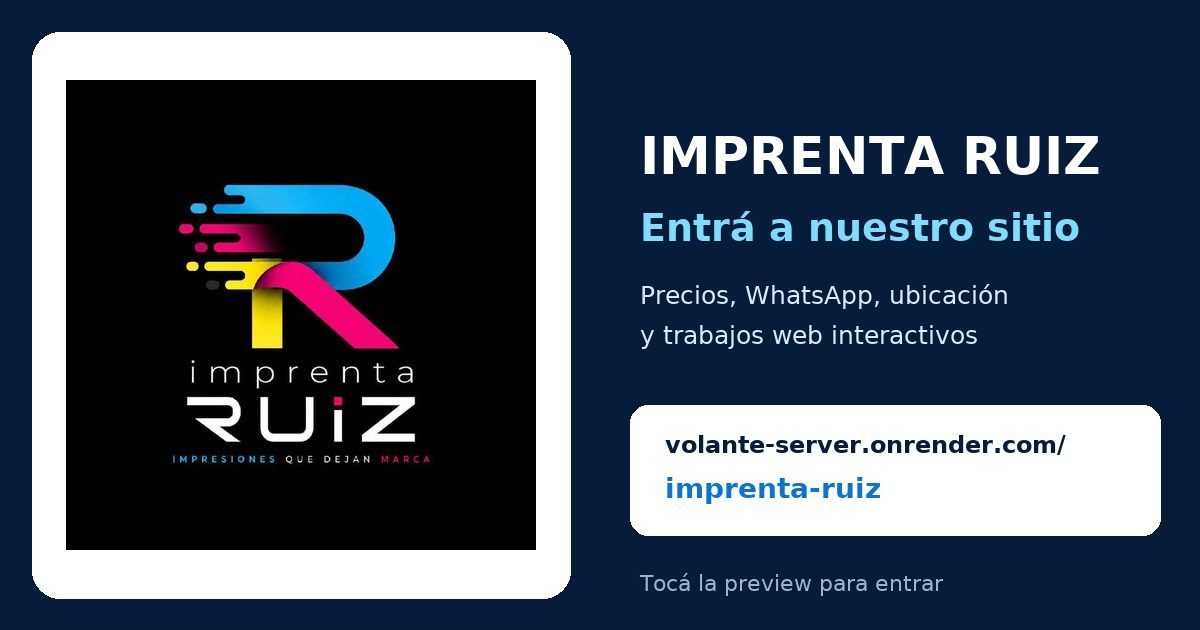
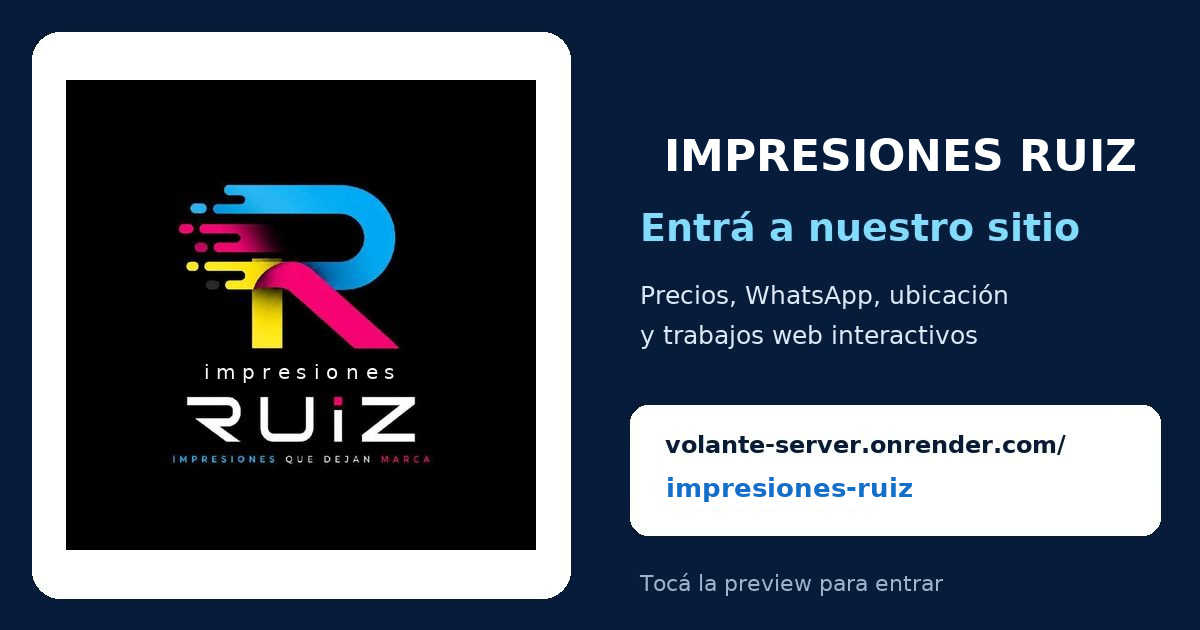
Actualiza el catálogo a Impresiones Ruiz

Changed region(s): [[0.5242, 0.2111, 0.9558, 0.3016], [0.555, 0.754, 0.7708, 0.8143], [0.1542, 0.573, 0.3392, 0.6032]]

diff --git a/templates/ruiz.html b/templates/ruiz.html
@@ -3,8 +3,8 @@
 <head>
   <meta charset="UTF-8">
   <meta name="viewport" content="width=device-width, initial-scale=1">
-  <title>Imprenta Ruiz — Diseño original</title>
-  <meta name="description" content="Diseño original de Imprenta Ruiz con precios y mascota virtual.">
+  <title>Impresiones Ruiz — Diseño original</title>
+  <meta name="description" content="Diseño original de Impresiones Ruiz con precios y mascota virtual.">
   <meta name="theme-color" content="#071b3b">
   <style>
     *{box-sizing:border-box}html,body{margin:0;min-height:100%;background:#071b3b}body{display:block}.canvas{position:relative;width:100%;max-width:485px;height:auto;margin:0 auto}.reference{display:block;width:100%;height:auto}.prices-overlay{position:absolute;z-index:3;left:6.5%;top:34.7%;width:87%;height:27.8%;overflow:hidden;border-radius:12px;background:#fff}.price-track{display:flex;width:200%;height:calc(100% - 14px);animation:price-slide 16s ease-in-out infinite}.price-slide{width:50%;height:100%;padding:4px;display:grid;grid-template-columns:1fr 1fr;grid-template-rows:1fr 1fr;gap:7px}.price-card{display:grid;grid-template-columns:37% 63%;min-height:0;overflow:hidden;border:1px solid #e6eaf1;border-radius:10px;background:#fff;box-shadow:0 4px 9px rgba(7,27,59,.13)}.price-icon{display:grid;place-items:center;color:#fff;font-size:23px}.blue{background:linear-gradient(145deg,#039af0,#0874d3)}.pink{background:linear-gradient(145deg,#f4007d,#d40055)}.yellow{background:linear-gradient(145deg,#ffd300,#ffb800)}.purple{background:linear-gradient(145deg,#9b36e8,#6920c7)}.price-info{padding:8px 6px}.price-info h2{font-size:10px;line-height:1.05;color:#071b3b}.price-info strong{display:block;margin-top:8px;font-size:16px;line-height:1;color:#078de8}.price-info small{display:block;margin-top:3px;font-size:8px;color:#53627a}@keyframes price-slide{0%,37%{transform:translateX(0)}47%,87%{transform:translateX(-50%)}100%{transform:translateX(0)}}.dots{height:14px;display:flex;align-items:center;justify-content:center;gap:5px}.dots i{width:5px;height:5px;border-radius:50%;background:#c4cbd8}.dots i:first-child{background:#078de8}.hit{position:absolute;display:block;z-index:4;border-radius:18px}.hit-map{left:18.5%;top:72.55%;width:62.5%;height:7.2%}.send-carousel{position:fixed;z-index:22;right:10px;top:50%;left:auto;width:56px;height:auto;transform:translateY(-50%);overflow:visible;border-radius:0;box-shadow:none}.send-track{display:flex;flex-direction:column;align-items:center;gap:10px;width:100%;height:auto;animation:none}.send-option{flex:0 0 auto;width:56px;height:56px;min-height:56px;display:flex;align-items:center;justify-content:center;gap:0;padding:0;box-sizing:border-box;border-radius:50%;color:#fff;text-decoration:none;font:0/0 Arial;box-shadow:0 4px 10px rgba(7,27,59,.28)}.send-option span{display:none}.send-option:hover,.send-option:focus-visible{filter:brightness(1.08);outline:3px solid #071b3b;outline-offset:3px}.send-option.whatsapp{background:linear-gradient(145deg,#27c768,#0a9f4d)}.send-option.telegram{background:linear-gradient(145deg,#24a9e8,#0874d3)}.send-option svg{width:28px;height:28px;fill:#fff;flex:none}@media(max-width:620px){.send-carousel{right:6px;width:48px}.send-track{gap:8px}.send-option{width:48px;height:48px;min-height:48px}.send-option svg{width:24px;height:24px}}.hit:focus-visible{outline:3px solid #071b3b;outline-offset:3px}
@@ -15,10 +15,10 @@
 </style>
 </head>
 <body>
-  <main class="canvas" aria-label="Diseño original de Imprenta Ruiz">
-    <img class="reference" src="/static/volante-ruiz-sin-hamburguesa.jpg" alt="Diseño original de Imprenta Ruiz">
+  <main class="canvas" aria-label="Diseño original de Impresiones Ruiz">
+    <img class="reference" src="/static/volante-ruiz-sin-hamburguesa.jpg" alt="Diseño original de Impresiones Ruiz">
     <section class="prices-overlay" aria-label="Precios principales con carrusel"><div class="price-track"><div class="price-slide"><article class="price-card"><div class="price-icon blue">🖨</div><div class="price-info"><h2>Impresión color</h2><strong>$1.250</strong><small>por faz</small></div></article><article class="price-card"><div class="price-icon pink">📄</div><div class="price-info"><h2>Blanco y negro</h2><strong>$900</strong><small>por faz</small></div></article><article class="price-card"><div class="price-icon yellow">🔩</div><div class="price-info"><h2>Anillado</h2><strong>$4.000</strong><small>todos</small></div></article><article class="price-card"><div class="price-icon purple">🏷</div><div class="price-info"><h2>A4 autoadhesivo</h2><strong>$7.500</strong><small>por hoja</small></div></article></div><div class="price-slide photo-slide"><button class="price-card mitsubishi-card" type="button" onclick="document.getElementById('precios-mitsubishi').classList.add('open')"><div class="price-icon purple">🖼</div><div class="price-info"><h2>Fotos Mitsubishi</h2><strong>Ver precios</strong><small>tocá para ver precios</small></div></button><button class="price-card inkjet-card" type="button" onclick="document.getElementById('precios-inkjet').classList.add('open')"><div class="price-icon blue">🖨</div><div class="price-info"><h2>Fotos Inkjet</h2><strong>Ver precios</strong><small>tocá para ver precios</small></div></button><button class="price-card web-work-card" type="button" onclick="document.getElementById('trabajos-web').classList.add('open')"><div class="price-icon blue">🌐</div><div class="price-info"><h2>Trabajos web interactivos</h2><strong>Ver sitios</strong><small>Fleming · Abigail</small></div></button><button class="price-card kodak-card" type="button" onclick="document.getElementById('precios-kodak').classList.add('open')"><div class="price-icon pink">📷</div><div class="price-info"><h2>Fotos Kodak</h2><strong>Ver precios</strong><small>tocá para ver precios</small></div></button><button class="price-card polaroid-card" type="button" onclick="document.getElementById('precios-polaroid').classList.add('open')"><div class="price-icon orange">🖼</div><div class="price-info"><h2>Fotos Polaroid</h2><strong>Ver precios</strong><small>individual · packs</small></div></button><article class="price-card"><div class="price-icon yellow">🧊</div><div class="price-info"><h2>Plastificado</h2><strong>Consultar</strong><small>brillo o mate</small></div></article><button class="price-card almanaques-card" type="button" onclick="document.getElementById('precios-almanaques').classList.add('open')"><div class="price-icon orange">📅</div><div class="price-info"><h2>Almanaques</h2><strong>Ver precios</strong><small>tocá para ver precios</small></div></button></div></div><div class="dots"><i></i><i></i></div></section>
-    <div class="send-carousel" aria-label="Enviar archivo por WhatsApp o Telegram"><div class="send-track"><a class="send-option whatsapp" href="https://wa.me/5493872101274?text=Hola%20Imprenta%20Ruiz%2C%20te%20mando%20mi%20archivo%20para%20imprimir" target="_blank" rel="noopener" aria-label="WhatsApp"><svg viewBox="0 0 24 24" aria-hidden="true"><path d="M12 2.2a9.7 9.7 0 0 0-8.36 14.62L2.2 21.8l5.13-1.39A9.7 9.7 0 1 0 12 2.2Zm0 17.72a8 8 0 0 1-4.08-1.12l-.29-.17-3.05.83.82-2.98-.19-.3A8.02 8.02 0 1 1 12 19.92Zm4.39-5.98c-.24-.12-1.43-.7-1.65-.78-.22-.08-.38-.12-.54.12-.16.24-.62.78-.76.94-.14.16-.28.18-.52.06-.24-.12-1.02-.38-1.94-1.2-.72-.64-1.2-1.43-1.34-1.67-.14-.24-.01-.37.1-.49.11-.11.24-.28.36-.42.12-.14.16-.24.24-.4.08-.16.04-.3-.02-.42-.06-.12-.54-1.3-.74-1.78-.2-.47-.4-.41-.54-.42h-.46c-.16 0-.42.06-.64.3-.22.24-.84.82-.84 2s.86 2.32.98 2.48c.12.16 1.7 2.6 4.12 3.64.58.25 1.03.4 1.38.51.58.18 1.1.15 1.51.09.46-.07 1.43-.58 1.63-1.14.2-.56.2-1.04.14-1.14-.06-.1-.22-.16-.46-.28Z"/></svg><span>Enviar archivo</span></a><a class="send-option telegram" href="https://t.me/imptaruiz" target="_blank" rel="noopener" aria-label="Enviar archivo por Telegram"><svg viewBox="0 0 24 24" aria-hidden="true"><path d="M21.7 3.4 18.4 20c-.25 1.17-.9 1.46-1.83.91l-5.04-3.72-2.43 2.34c-.27.27-.5.5-1.03.5l.37-5.14 9.36-8.46c.41-.37-.09-.58-.63-.21L5.63 13.7.65 12.14c-1.08-.34-1.1-1.08.23-1.57L20.3 3.03c.9-.33 1.68.21 1.4.37Z"/></svg><span>Enviar archivo</span></a></div></div><a class="hit hit-map" href="https://www.google.com/maps/search/?api=1&query=Chacabuco+470+Salta" target="_blank" rel="noopener" aria-label="Cómo llegar a Imprenta Ruiz"></a>
+    <div class="send-carousel" aria-label="Enviar archivo por WhatsApp o Telegram"><div class="send-track"><a class="send-option whatsapp" href="https://wa.me/5493872101274?text=Hola%20Impresiones%20Ruiz%2C%20te%20mando%20mi%20archivo%20para%20imprimir" target="_blank" rel="noopener" aria-label="WhatsApp"><svg viewBox="0 0 24 24" aria-hidden="true"><path d="M12 2.2a9.7 9.7 0 0 0-8.36 14.62L2.2 21.8l5.13-1.39A9.7 9.7 0 1 0 12 2.2Zm0 17.72a8 8 0 0 1-4.08-1.12l-.29-.17-3.05.83.82-2.98-.19-.3A8.02 8.02 0 1 1 12 19.92Zm4.39-5.98c-.24-.12-1.43-.7-1.65-.78-.22-.08-.38-.12-.54.12-.16.24-.62.78-.76.94-.14.16-.28.18-.52.06-.24-.12-1.02-.38-1.94-1.2-.72-.64-1.2-1.43-1.34-1.67-.14-.24-.01-.37.1-.49.11-.11.24-.28.36-.42.12-.14.16-.24.24-.4.08-.16.04-.3-.02-.42-.06-.12-.54-1.3-.74-1.78-.2-.47-.4-.41-.54-.42h-.46c-.16 0-.42.06-.64.3-.22.24-.84.82-.84 2s.86 2.32.98 2.48c.12.16 1.7 2.6 4.12 3.64.58.25 1.03.4 1.38.51.58.18 1.1.15 1.51.09.46-.07 1.43-.58 1.63-1.14.2-.56.2-1.04.14-1.14-.06-.1-.22-.16-.46-.28Z"/></svg><span>Enviar archivo</span></a><a class="send-option telegram" href="https://t.me/imptaruiz" target="_blank" rel="noopener" aria-label="Enviar archivo por Telegram"><svg viewBox="0 0 24 24" aria-hidden="true"><path d="M21.7 3.4 18.4 20c-.25 1.17-.9 1.46-1.83.91l-5.04-3.72-2.43 2.34c-.27.27-.5.5-1.03.5l.37-5.14 9.36-8.46c.41-.37-.09-.58-.63-.21L5.63 13.7.65 12.14c-1.08-.34-1.1-1.08.23-1.57L20.3 3.03c.9-.33 1.68.21 1.4.37Z"/></svg><span>Enviar archivo</span></a></div></div><a class="hit hit-map" href="https://www.google.com/maps/search/?api=1&query=Chacabuco+470+Salta" target="_blank" rel="noopener" aria-label="Cómo llegar a Impresiones Ruiz"></a>
   <div class="web-modal" id="precios-kodak" role="dialog" aria-modal="true" aria-label="Precios Fotos Kodak"><div class="web-box"><div class="web-head"><h2>Precios Fotos Kodak</h2><button class="web-close" type="button" aria-label="Cerrar" onclick="document.getElementById('precios-kodak').classList.remove('open')">×</button></div><p class="web-sub">Impresión térmica Kodak en papel térmico brillante de 300 g, con larga duración.</p><div class="inkjet-prices"><div><span>10×15 cm</span><b>$5.500</b></div><div><span>15×15 cm</span><b>$6.500</b></div><div><span>15×20 cm</span><b>$7.500</b></div></div></div></div>
   <div class="web-modal" id="precios-polaroid" role="dialog" aria-modal="true" aria-label="Precios Fotos Polaroid"><div class="web-box"><div class="web-head"><h2>Precios Fotos Polaroid</h2><button class="web-close" type="button" aria-label="Cerrar" onclick="document.getElementById('precios-polaroid').classList.remove('open')">×</button></div><p class="web-sub">Fotos estilo Polaroid Mitsubishi. Medida final: 8,5×10,5 cm.</p><div class="inkjet-prices"><div><span>Individual</span><b>$4.000</b></div><div><span>Pack de 4</span><b>$12.000</b></div><div><span>Pack de 10</span><b>$25.000</b></div></div></div></div>
   <div class="web-modal" id="precios-almanaques" role="dialog" aria-modal="true" aria-label="Precios de almanaques"><div class="web-box"><div class="web-head"><h2>Precios de almanaques</h2><button class="web-close" type="button" aria-label="Cerrar" onclick="document.getElementById('precios-almanaques').classList.remove('open')">×</button></div><p class="web-sub">Almanaques impresos a color. Valores por unidad con diseño ya preparado.</p><div class="inkjet-prices"><div><span>5×8 cm</span><b>$2.500</b></div><div><span>9×6 cm</span><b>$3.000</b></div><div><span>A4</span><b>$7.500</b></div><div><span>A3</span><b>$15.000</b></div><div><span>A3+</span><b>$18.000</b></div></div></div></div>
@@ -29,9 +29,9 @@
     <a class="web-card catalog-card" href="https://catalogo-app-zm3w.onrender.com/fleming" target="_blank" rel="noopener"><img src="https://volante-server.onrender.com/static/web-preview-fleming.jpg" alt="Banner de Inmobiliaria Fleming"><strong>Catálogo de Inmobiliaria Fleming</strong><small>Abrir catálogo interactivo ↗</small></a>
     <a class="web-card catalog-card" href="https://catalogo-app-zm3w.onrender.com/c/libreria-ruiz" target="_blank" rel="noopener"><img src="https://catalogo-app-zm3w.onrender.com/static/banner_libreria_ruiz.jpg" alt="Banner de Librería Ruiz"><strong>Catálogo de Librería Ruiz</strong><small>Abrir catálogo interactivo ↗</small></a>
     <a class="web-card catalog-card" href="https://catalogo-app-zm3w.onrender.com/c/vivero-los-colibries" target="_blank" rel="noopener"><img src="https://catalogo-app-zm3w.onrender.com/static/banner_vivero_los_colibries_nuevo.jpg" alt="Banner de Vivero Los Colibríes"><strong>Catálogo Vivero Los Colibríes</strong><small>Abrir catálogo interactivo ↗</small></a>
-    <a class="web-card catalog-card" href="https://volante-server.onrender.com/imprenta-ruiz" target="_blank" rel="noopener"><img src="https://volante-server.onrender.com/static/imprenta-ruiz-preview-v3.jpg" alt="Banner de Imprenta Ruiz"><strong>Catálogo Imprenta Ruiz</strong><small>Abrir catálogo interactivo ↗</small></a>
+    <a class="web-card catalog-card" href="https://volante-server.onrender.com/impresiones-ruiz" target="_blank" rel="noopener"><img src="https://volante-server.onrender.com/static/imprenta-ruiz-preview-v3.jpg" alt="Banner de Impresiones Ruiz"><strong>Catálogo Impresiones Ruiz</strong><small>Abrir catálogo interactivo ↗</small></a>
   </div></div></div>
   </main>
-  <img class="mascota-float" src="https://share.zapia.com/364edisw4oof6c0bxul0tz" alt="Mascota animada de Imprenta Ruiz">
+  <img class="mascota-float" src="https://share.zapia.com/364edisw4oof6c0bxul0tz" alt="Mascota animada de Impresiones Ruiz">
 </body>
 </html>

diff --git a/app.py b/app.py
@@ -107,10 +107,12 @@ def index():
     return render_template("index.html", imprenta_wpp=IMPRENTA_WHATSAPP)
 
 
+@app.route("/impresiones-ruiz")
+@app.route("/impresiones-ruiz/")
 @app.route("/imprenta-ruiz")
 @app.route("/imprenta-ruiz/")
 def imprenta_ruiz():
-    """Página pública de Imprenta Ruiz, con preview al compartir el enlace."""
+    """Página pública de Impresiones Ruiz, con preview al compartir el enlace."""
     html = render_template("ruiz.html")
     # Las previsualizaciones antiguas venían incrustadas en base64 y hacían
     # crecer la página más de medio megabyte. Se sirven como imágenes cacheables.
@@ -163,8 +165,8 @@ def imprenta_ruiz():
         mascot_end = html.find('>', mascot_start)
         if mascot_end >= 0:
             html = html[:mascot_start] + html[mascot_end + 1:]
-    location_anchor = '<a class="hit hit-map" href="https://www.google.com/maps/search/?api=1&query=Chacabuco+470+Salta" target="_blank" rel="noopener" aria-label="Cómo llegar a Imprenta Ruiz"></a>'
-    location_buttons = '''<div class="location-split hit" aria-label="Ubicación de Imprenta Ruiz">
+    location_anchor = '<a class="hit hit-map" href="https://www.google.com/maps/search/?api=1&query=Chacabuco+470+Salta" target="_blank" rel="noopener" aria-label="Cómo llegar a Impresiones Ruiz"></a>'
+    location_buttons = '''<div class="location-split hit" aria-label="Ubicación de Impresiones Ruiz">
       <button type="button" class="location-hotspot front-hotspot" data-open-modal="frontModal" title="Ver mi casa" aria-label="Ver mi casa"></button>
       <button type="button" class="location-hotspot map-hotspot" data-open-modal="mapModal" title="Cómo llegar y ver mapa" aria-label="Cómo llegar y ver mapa"></button>
     </div>'''
@@ -223,10 +225,10 @@ def imprenta_ruiz():
 @media(max-width:620px){.send-carousel{top:calc(50% + 185px)!important}.belen-widget{right:10px!important;left:auto!important;top:calc(50% + 70px)!important;bottom:auto!important;transform:none!important}}
 </style>
 <div class="ruiz-modal" id="frontModal" role="dialog" aria-modal="true" aria-labelledby="frontModalTitle">
-  <div class="ruiz-modal-card"><button class="ruiz-close" type="button" data-close-modal>Cerrar ✕</button><h2 id="frontModalTitle">Mi casa / Imprenta Ruiz</h2><img class="ruiz-front-image" src="/static/frente_casa_rejas_final.jpg" alt="Frente con rejas de Imprenta Ruiz en Chacabuco 470"></div>
+  <div class="ruiz-modal-card"><button class="ruiz-close" type="button" data-close-modal>Cerrar ✕</button><h2 id="frontModalTitle">Mi casa / Impresiones Ruiz</h2><img class="ruiz-front-image" src="/static/frente_casa_rejas_final.jpg" alt="Frente con rejas de Impresiones Ruiz en Chacabuco 470"></div>
 </div>
 <div class="ruiz-modal" id="mapModal" role="dialog" aria-modal="true" aria-labelledby="mapModalTitle">
-  <div class="ruiz-modal-card"><button class="ruiz-close" type="button" data-close-modal>Cerrar ✕</button><h2 id="mapModalTitle">Cómo llegar a Imprenta Ruiz</h2><iframe class="ruiz-map-frame" title="Mapa de Chacabuco 470, Salta" src="https://www.google.com/maps?q=Chacabuco%20470%2C%20Salta&output=embed" loading="lazy"></iframe><a class="ruiz-map-link" href="https://www.google.com/maps/search/?api=1&query=Chacabuco+470+Salta" target="_blank" rel="noopener">Abrir ubicación en Google Maps</a></div>
+  <div class="ruiz-modal-card"><button class="ruiz-close" type="button" data-close-modal>Cerrar ✕</button><h2 id="mapModalTitle">Cómo llegar a Impresiones Ruiz</h2><iframe class="ruiz-map-frame" title="Mapa de Chacabuco 470, Salta" src="https://www.google.com/maps?q=Chacabuco%20470%2C%20Salta&output=embed" loading="lazy"></iframe><a class="ruiz-map-link" href="https://www.google.com/maps/search/?api=1&query=Chacabuco+470+Salta" target="_blank" rel="noopener">Abrir ubicación en Google Maps</a></div>
 </div>
 <div class="whatsapp-form-modal" id="whatsappFormModal" role="dialog" aria-modal="true" aria-labelledby="whatsappFormTitle">
   <div class="whatsapp-form-card">
@@ -248,17 +250,17 @@ def imprenta_ruiz():
     </form>
   </div>
 </div>
-<div class="belen-widget" id="belenWidget" aria-label="Belen, asistente virtual de Imprenta Ruiz">
+<div class="belen-widget" id="belenWidget" aria-label="Belen, asistente virtual de Impresiones Ruiz">
   <div class="belen-nudge" id="belenNudge">👋 Hola, soy <b>Belen</b>.<br>Hablá conmigo sobre tu trabajo.</div>
-  <button class="belen-launcher" id="belenLauncher" type="button" aria-label="Abrir a Belen, asistente virtual" aria-expanded="false"><img src="https://files2.heygen.ai/avatar/v3/75e0a87b7fd94f0981ff398b593dd47f_45570/preview_talk_4.webp" alt="Belen, asistente virtual de Imprenta Ruiz"></button>
+  <button class="belen-launcher" id="belenLauncher" type="button" aria-label="Abrir a Belen, asistente virtual" aria-expanded="false"><img src="https://files2.heygen.ai/avatar/v3/75e0a87b7fd94f0981ff398b593dd47f_45570/preview_talk_4.webp" alt="Belen, asistente virtual de Impresiones Ruiz"></button>
   <section class="belen-panel" id="belenPanel" role="dialog" aria-modal="false" aria-labelledby="belenTitle">
-    <header class="belen-head"><img src="https://files2.heygen.ai/avatar/v3/75e0a87b7fd94f0981ff398b593dd47f_45570/preview_talk_4.webp" alt=""><div><strong id="belenTitle">Belen</strong><span>Asistente virtual · Imprenta Ruiz</span></div><button class="belen-close" id="belenClose" type="button" aria-label="Cerrar Belen">×</button></header>
-    <iframe class="belen-live-frame" id="belenLiveFrame" title="Belen, asistente virtual de Imprenta Ruiz" data-src="https://embed.liveavatar.com/v1/fca1a3c1-88b5-47ac-9110-a1ff8f2fb7f2?orientation=vertical" src="about:blank" allow="microphone; autoplay" allowfullscreen></iframe>
+    <header class="belen-head"><img src="https://files2.heygen.ai/avatar/v3/75e0a87b7fd94f0981ff398b593dd47f_45570/preview_talk_4.webp" alt=""><div><strong id="belenTitle">Belen</strong><span>Asistente virtual · Impresiones Ruiz</span></div><button class="belen-close" id="belenClose" type="button" aria-label="Cerrar Belen">×</button></header>
+    <iframe class="belen-live-frame" id="belenLiveFrame" title="Belen, asistente virtual de Impresiones Ruiz" data-src="https://embed.liveavatar.com/v1/fca1a3c1-88b5-47ac-9110-a1ff8f2fb7f2?orientation=vertical" src="about:blank" allow="microphone; autoplay" allowfullscreen></iframe>
     <div class="belen-foot">Podés hablarle a Belen usando el micrófono.<button type="button" class="belen-quote-open" id="belenQuoteOpen">📄 Generar presupuesto PDF</button></div>
   </section>
 </div>
 <div class="rulito-prices-modal" id="rulitoPricesModal" role="dialog" aria-modal="true" aria-labelledby="rulitoPricesTitle">
-  <div class="rulito-prices-card"><button class="rulito-price-close" type="button" data-rulito-close>Cerrar ✕</button><h2 id="rulitoPricesTitle">🧾 Precios de Imprenta Ruiz</h2><p>Estos son los precios actuales. Si necesitás otro trabajo, preguntame.</p>
+  <div class="rulito-prices-card"><button class="rulito-price-close" type="button" data-rulito-close>Cerrar ✕</button><h2 id="rulitoPricesTitle">🧾 Precios de Impresiones Ruiz</h2><p>Estos son los precios actuales. Si necesitás otro trabajo, preguntame.</p>
     <div class="rulito-price-grid">
       <div class="rulito-price-group"><h3>Impresiones</h3><p>Color: <b>$1.250</b> por faz</p><p>Blanco y negro: <b>$900</b> por faz</p><p>Anillado: <b>$4.000</b></p><p>A4 autoadhesivo: <b>$7.500</b></p></div>
       <div class="rulito-price-group"><h3>Libros PDF</h3><p>B/N: <b>$800</b> por faz</p><p>Color: <b>$1.100</b> por faz</p><p>Anillado: <b>$4.000</b></p><p>Más de 5 ejemplares: precio especial</p></div>
@@ -303,7 +305,7 @@ def imprenta_ruiz():
     var detalle=document.getElementById('whatsappDetalle').value.trim()||'Sin detalles adicionales';
     var archivo=document.getElementById('whatsappArchivo').files[0];
     var archivoTexto=archivo?'Sí — '+archivo.name+' (lo adjunto en el chat)':'No';
-    var mensaje=['Hola Imprenta Ruiz, quiero hacer una consulta.','*Nombre:* '+nombre+' '+apellido,'*Celular:* '+celular,'*Producto o trabajo:* '+producto,'*Detalles:* '+detalle,'*¿Adjunto archivo?:* '+archivoTexto,'*Horario para llamarme:* '+horario].join('\\n');
+    var mensaje=['Hola Impresiones Ruiz, quiero hacer una consulta.','*Nombre:* '+nombre+' '+apellido,'*Celular:* '+celular,'*Producto o trabajo:* '+producto,'*Detalles:* '+detalle,'*¿Adjunto archivo?:* '+archivoTexto,'*Horario para llamarme:* '+horario].join('\\n');
     if(contactChannel==='telegram'){
       try{if(navigator.clipboard)navigator.clipboard.writeText(mensaje)}catch(err){}
       window.open('https://t.me/imptaruiz?text='+encodeURIComponent(mensaje),'_blank','noopener');
@@ -325,7 +327,7 @@ def imprenta_ruiz():
   document.addEventListener('keydown',function(e){if(e.key==='Escape')toggleBelen(false)});
   var rulitoMessage=document.querySelector('.rulito-message');
   var rulitoMessages=[
-    '👋 Hola, bienvenidos a Imprenta Ruiz',
+    '👋 Hola, bienvenidos a Impresiones Ruiz',
     'Soy Rulito, tu asistente.',
     '🖨 Impresión color: $1.250 por faz',
     '📄 Blanco y negro: $900 por faz',
@@ -397,7 +399,7 @@ def imprenta_ruiz():
 @media(max-width:620px){.quote-card{padding:16px}.quote-grid{grid-template-columns:1fr}.quote-field.full{grid-column:auto}.quote-row{grid-template-columns:minmax(0,1fr) 62px 90px 28px}.quote-row input{font-size:11px}.quote-actions button{flex:1}}
 </style>
 <div class="quote-modal" id="quoteModal" role="dialog" aria-modal="true" aria-labelledby="quoteTitle">
-  <div class="quote-card"><button class="quote-close" type="button" id="quoteClose">Cerrar ✕</button><h2 id="quoteTitle">📄 Presupuesto de Imprenta Ruiz</h2><p>Belén te ayuda a calcularlo; completá los renglones y generá el PDF para enviar.</p>
+  <div class="quote-card"><button class="quote-close" type="button" id="quoteClose">Cerrar ✕</button><h2 id="quoteTitle">📄 Presupuesto de Impresiones Ruiz</h2><p>Belén te ayuda a calcularlo; completá los renglones y generá el PDF para enviar.</p>
     <form id="quoteForm"><div class="quote-grid"><div class="quote-field"><label for="quoteName">Cliente *</label><input id="quoteName" required></div><div class="quote-field"><label for="quotePhone">WhatsApp</label><input id="quotePhone" type="tel" placeholder="387 210-1274"></div><div class="quote-field full"><label for="quoteNote">Observación</label><textarea id="quoteNote" placeholder="Detalles, medidas o plazo"></textarea></div></div>
       <div class="quote-items"><h3>Ítems del presupuesto</h3><div id="quoteRows"></div><button type="button" class="quote-add" id="quoteAdd">+ Agregar ítem</button></div>
       <div class="quote-actions"><button type="submit" class="quote-submit">Generar PDF</button></div>
@@ -410,7 +412,7 @@ def imprenta_ruiz():
   function closeQuote(){if(modal)modal.classList.remove("is-open")}
   function addRow(desc,qty,unit){var row=document.createElement("div");row.className="quote-row";row.innerHTML='<input class="q-desc" placeholder="Descripción" value="'+(desc||"")+'" required><input class="q-qty" type="number" min="1" step="1" value="'+(qty||1)+'" required><input class="q-unit" type="number" min="0" step="1" placeholder="$ unit." value="'+(unit||"")+'" required><button type="button" class="quote-remove" aria-label="Quitar ítem">×</button>';row.querySelector(".quote-remove").addEventListener("click",function(){row.remove()});rows.appendChild(row)}
   if(open)open.addEventListener("click",function(){modal.classList.add("is-open");if(!rows.children.length)addRow()});if(close)close.addEventListener("click",closeQuote);if(modal)modal.addEventListener("click",function(e){if(e.target===modal)closeQuote()});if(add)add.addEventListener("click",function(){addRow()});
-  if(form)form.addEventListener("submit",async function(e){e.preventDefault();var items=[];rows.querySelectorAll(".quote-row").forEach(function(row){items.push({descripcion:row.querySelector(".q-desc").value.trim(),cantidad:Number(row.querySelector(".q-qty").value),precio_unit:Number(row.querySelector(".q-unit").value)})});if(!items.length)return;var payload={nombre:document.getElementById("quoteName").value.trim(),telefono:document.getElementById("quotePhone").value.trim(),nota:document.getElementById("quoteNote").value.trim(),items:items};result.classList.add("is-visible");result.textContent="Generando presupuesto…";try{var r=await fetch("/api/presupuesto",{method:"POST",headers:{"Content-Type":"application/json"},body:JSON.stringify(payload)}),d=await r.json();if(!r.ok||!d.ok)throw new Error(d.error||"No se pudo generar");var wa="Hola, te envío el presupuesto de Imprenta Ruiz. Total: $"+Number(d.total).toLocaleString("es-AR")+". PDF: "+d.pdf_url;var phone=(payload.telefono||"").replace(/[^0-9]/g,"");if(phone.length===10)phone="549"+phone;result.innerHTML="Presupuesto generado. Total: $"+Number(d.total).toLocaleString("es-AR")+"<br><a href='"+d.pdf_url+"' target='_blank'>Abrir o descargar PDF</a>"+(payload.telefono?"<br><button type='button' class='quote-wa quote-send' id='quoteSend'>Confirmar y enviar por WhatsApp</button>":"");if(payload.telefono){document.getElementById("quoteSend").addEventListener("click",async function(){var btn=this;btn.disabled=true;btn.textContent="Registrando envío…";try{var sr=await fetch("/api/presupuesto/"+d.quote_id+"/enviar",{method:"POST",headers:{"Content-Type":"application/json"},body:JSON.stringify({telefono:payload.telefono,total:d.total})}),sd=await sr.json();if(!sr.ok||!sd.ok)throw new Error(sd.error||"No se pudo registrar");btn.textContent="✅ Envío confirmado";result.insertAdjacentHTML("beforeend","<br>El PDF quedó confirmado para enviarse al WhatsApp indicado.")}catch(x){btn.disabled=false;btn.textContent="Confirmar y enviar por WhatsApp";alert("No se pudo registrar el envío. Revisá el número e intentá nuevamente.")}})}}catch(err){result.textContent="No se pudo generar el PDF. Revisá los datos e intentá nuevamente."}})
+  if(form)form.addEventListener("submit",async function(e){e.preventDefault();var items=[];rows.querySelectorAll(".quote-row").forEach(function(row){items.push({descripcion:row.querySelector(".q-desc").value.trim(),cantidad:Number(row.querySelector(".q-qty").value),precio_unit:Number(row.querySelector(".q-unit").value)})});if(!items.length)return;var payload={nombre:document.getElementById("quoteName").value.trim(),telefono:document.getElementById("quotePhone").value.trim(),nota:document.getElementById("quoteNote").value.trim(),items:items};result.classList.add("is-visible");result.textContent="Generando presupuesto…";try{var r=await fetch("/api/presupuesto",{method:"POST",headers:{"Content-Type":"application/json"},body:JSON.stringify(payload)}),d=await r.json();if(!r.ok||!d.ok)throw new Error(d.error||"No se pudo generar");var wa="Hola, te envío el presupuesto de Impresiones Ruiz. Total: $"+Number(d.total).toLocaleString("es-AR")+". PDF: "+d.pdf_url;var phone=(payload.telefono||"").replace(/[^0-9]/g,"");if(phone.length===10)phone="549"+phone;result.innerHTML="Presupuesto generado. Total: $"+Number(d.total).toLocaleString("es-AR")+"<br><a href='"+d.pdf_url+"' target='_blank'>Abrir o descargar PDF</a>"+(payload.telefono?"<br><button type='button' class='quote-wa quote-send' id='quoteSend'>Confirmar y enviar por WhatsApp</button>":"");if(payload.telefono){document.getElementById("quoteSend").addEventListener("click",async function(){var btn=this;btn.disabled=true;btn.textContent="Registrando envío…";try{var sr=await fetch("/api/presupuesto/"+d.quote_id+"/enviar",{method:"POST",headers:{"Content-Type":"application/json"},body:JSON.stringify({telefono:payload.telefono,total:d.total})}),sd=await sr.json();if(!sr.ok||!sd.ok)throw new Error(sd.error||"No se pudo registrar");btn.textContent="✅ Envío confirmado";result.insertAdjacentHTML("beforeend","<br>El PDF quedó confirmado para enviarse al WhatsApp indicado.")}catch(x){btn.disabled=false;btn.textContent="Confirmar y enviar por WhatsApp";alert("No se pudo registrar el envío. Revisá el número e intentá nuevamente.")}})}}catch(err){result.textContent="No se pudo generar el PDF. Revisá los datos e intentá nuevamente."}})
 })();
 </script>
 '''
@@ -420,13 +422,13 @@ def imprenta_ruiz():
 <link rel="preload" as="image" href="https://volante-server.onrender.com/static/volante-ruiz-sin-hamburguesa.jpg">
 <meta name="theme-color" content="#071b3b">
 <meta property="og:type" content="website">
-<meta property="og:title" content="Imprenta Ruiz">
-<meta property="og:description" content="Precios y trabajos web de Imprenta Ruiz.">
+<meta property="og:title" content="Impresiones Ruiz">
+<meta property="og:description" content="Precios y trabajos web de Impresiones Ruiz.">
 <meta property="og:image" content="https://volante-server.onrender.com/static/imprenta-ruiz-preview-v3.jpg">
 <meta property="og:image:width" content="1200">
 <meta property="og:image:height" content="630">
 <meta property="og:image:type" content="image/jpeg">
-<meta property="og:url" content="https://volante-server.onrender.com/imprenta-ruiz">
+<meta property="og:url" content="https://volante-server.onrender.com/impresiones-ruiz">
 <meta name="twitter:card" content="summary_large_image">
 <meta name="twitter:image" content="https://volante-server.onrender.com/static/imprenta-ruiz-preview-v3.jpg">
 """
